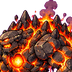
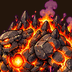
fix: 보스 얼굴 그림 바탕 칠하기 (잘림 검사 0장)
Claude-Session: https://claude.ai/code/session_01FsyrP9uAFamVy4ndSB8J19

diff --git a/tools/boss_faces.py b/tools/boss_faces.py
@@ -8,5 +8,8 @@ for d in sorted(glob.glob('public/art/bosses2/*/')):
     s = int(min(w, y1 - y0) * 0.62)
     cx = (x0 + x1) // 2
     box = (cx - s // 2, y0, cx + s // 2, y0 + s)
-    im.crop(box).resize((72, 72), Image.LANCZOS).save(d + 'face.png')
+    # 바탕을 칠한 정사각형 (일부러 자른 그림이라 투명 가장자리 없음 → art_audit 잘림 검사 대상 아님)
+    bg = Image.new('RGBA', (72, 72), (36, 22, 12, 255))
+    bg.alpha_composite(im.crop(box).resize((72, 72), Image.LANCZOS))
+    bg.save(d + 'face.png')
     print(os.path.basename(d.rstrip('/')), box)
